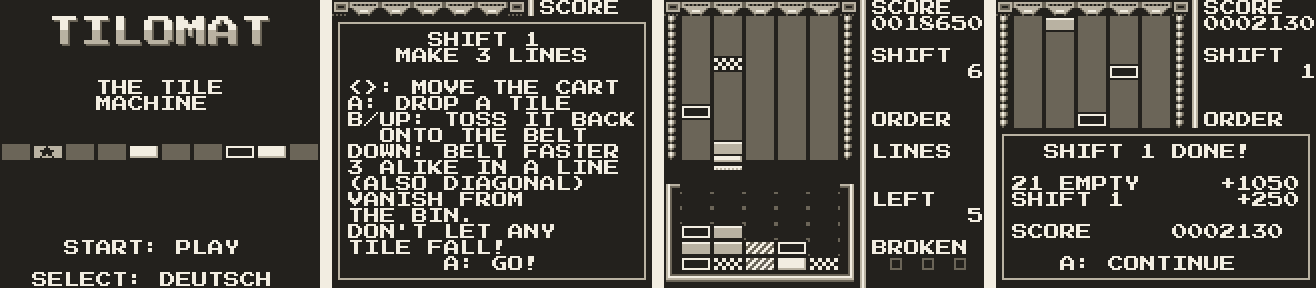
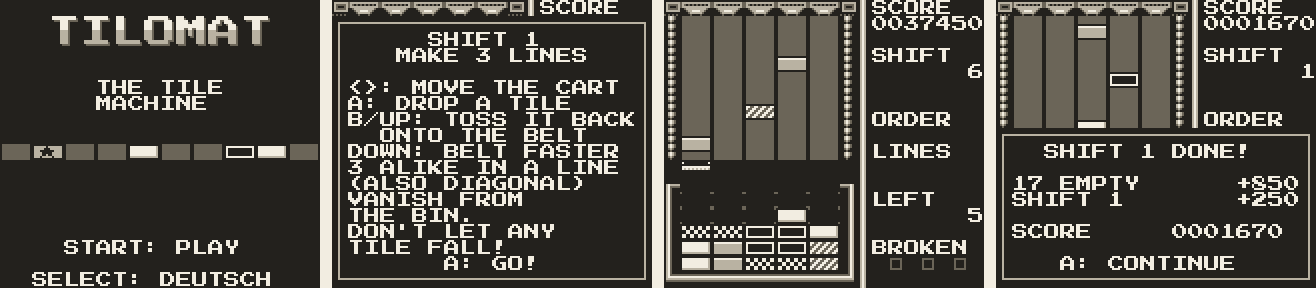
Autoplay: keep the drop target, so the GIF does not flicker
Under the nearest tile the autoplayer switched to dropping and drove to
the best column, where it switched back to chasing the tile: the cart
jumped between two lanes every few frames, which showed as a flicker in
gameplay.gif. It now keeps the column until the drop (or a tile is
about to fall off). Screenshots and animation retaken.

diff --git a/tools/autoplay.py b/tools/autoplay.py
@@ -85,9 +85,16 @@ def column_score(binv, col, kind):
     return s - 2 * h
 
 
+# the column the cart is going to for a drop; kept until the drop, so the cart does not turn
+# back and forth between the nearest tile and the column
+target = None
+
+
 def decide():
     """The button to press now, or None."""
+    global target
     if field('phase') != 1:
+        target = None
         return 'a' if field('timer') % 60 == 59 else None
     if rng.randrange(1000) < MISTAKES:
         return rng.choice([None, None, 'left', 'right', 'a'])
@@ -99,7 +106,9 @@ def decide():
         for s in range(SLOTS):
             if belt[lane * SLOTS + s] and s < nearest:
                 nearest, lane_n = s, lane
-    if stack_n and (stack_n == CART_MAX or nearest > 3 or lane_n == cart and nearest > 1):
+    if not stack_n or (nearest <= 1 and lane_n != cart and stack_n < CART_MAX):
+        target = None
+    elif target is None and (stack_n == CART_MAX or nearest > 3 or lane_n == cart and nearest > 1):
         kind = field('stack')[stack_n - 1] & 15
         binv = field('bin')
         best, bv = cart, -1000
@@ -109,8 +118,11 @@ def decide():
                 best, bv = c, v
         if bv <= -90:
             return 'b'
-        if best != cart:
-            return 'left' if best < cart else 'right'
+        target = best
+    if target is not None:
+        if target != cart:
+            return 'left' if target < cart else 'right'
+        target = None
         return 'a'
     if lane_n is not None and lane_n != cart:
         return 'left' if lane_n < cart else 'right'

diff --git a/tools/shots.py b/tools/shots.py
@@ -29,8 +29,8 @@ PAL = {(255, 255, 255): (0xf2, 0xed, 0xe1), (153, 153, 153): (0xb9, 0xb2, 0xa2),
        (85, 85, 85): (0x6b, 0x65, 0x58), (0, 0, 0): (0x23, 0x21, 0x1d)}
 
 # the good player: name -> frame
-GOOD = {'help': 20, 'play': 2550, 'done': 2750, 'intro': 20250, 'play2': 21600, 'play3': 34500}
-GIF = (21300, 21900)
+GOOD = {'help': 20, 'play': 2400, 'done': 3300, 'intro': 48300, 'play2': 49800, 'play3': 63300}
+GIF = (49200, 49800)
 # the sloppy player (700 of 1000 decisions wrong)
 BAD = {'gameover': 2300}
 # the strip for the README
